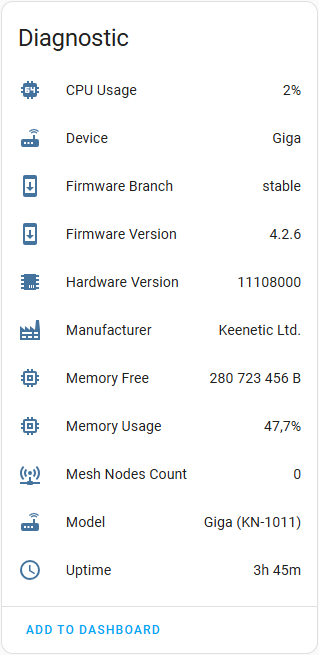
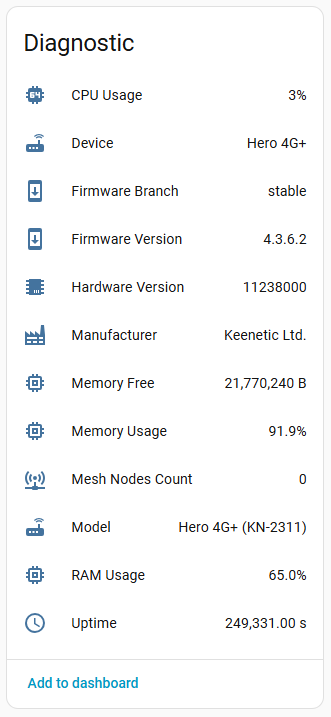
image,readme changes

diff --git a/README.md b/README.md
@@ -121,6 +121,9 @@ Mesh devices information (if available):
 
 ![Mesh information](images/9.png)
 
+Mobile devices information (if available):
+![Mobile information](images/10.png)
+
 ## Contributing
 
 Any suggestions for improvement are welcome.
